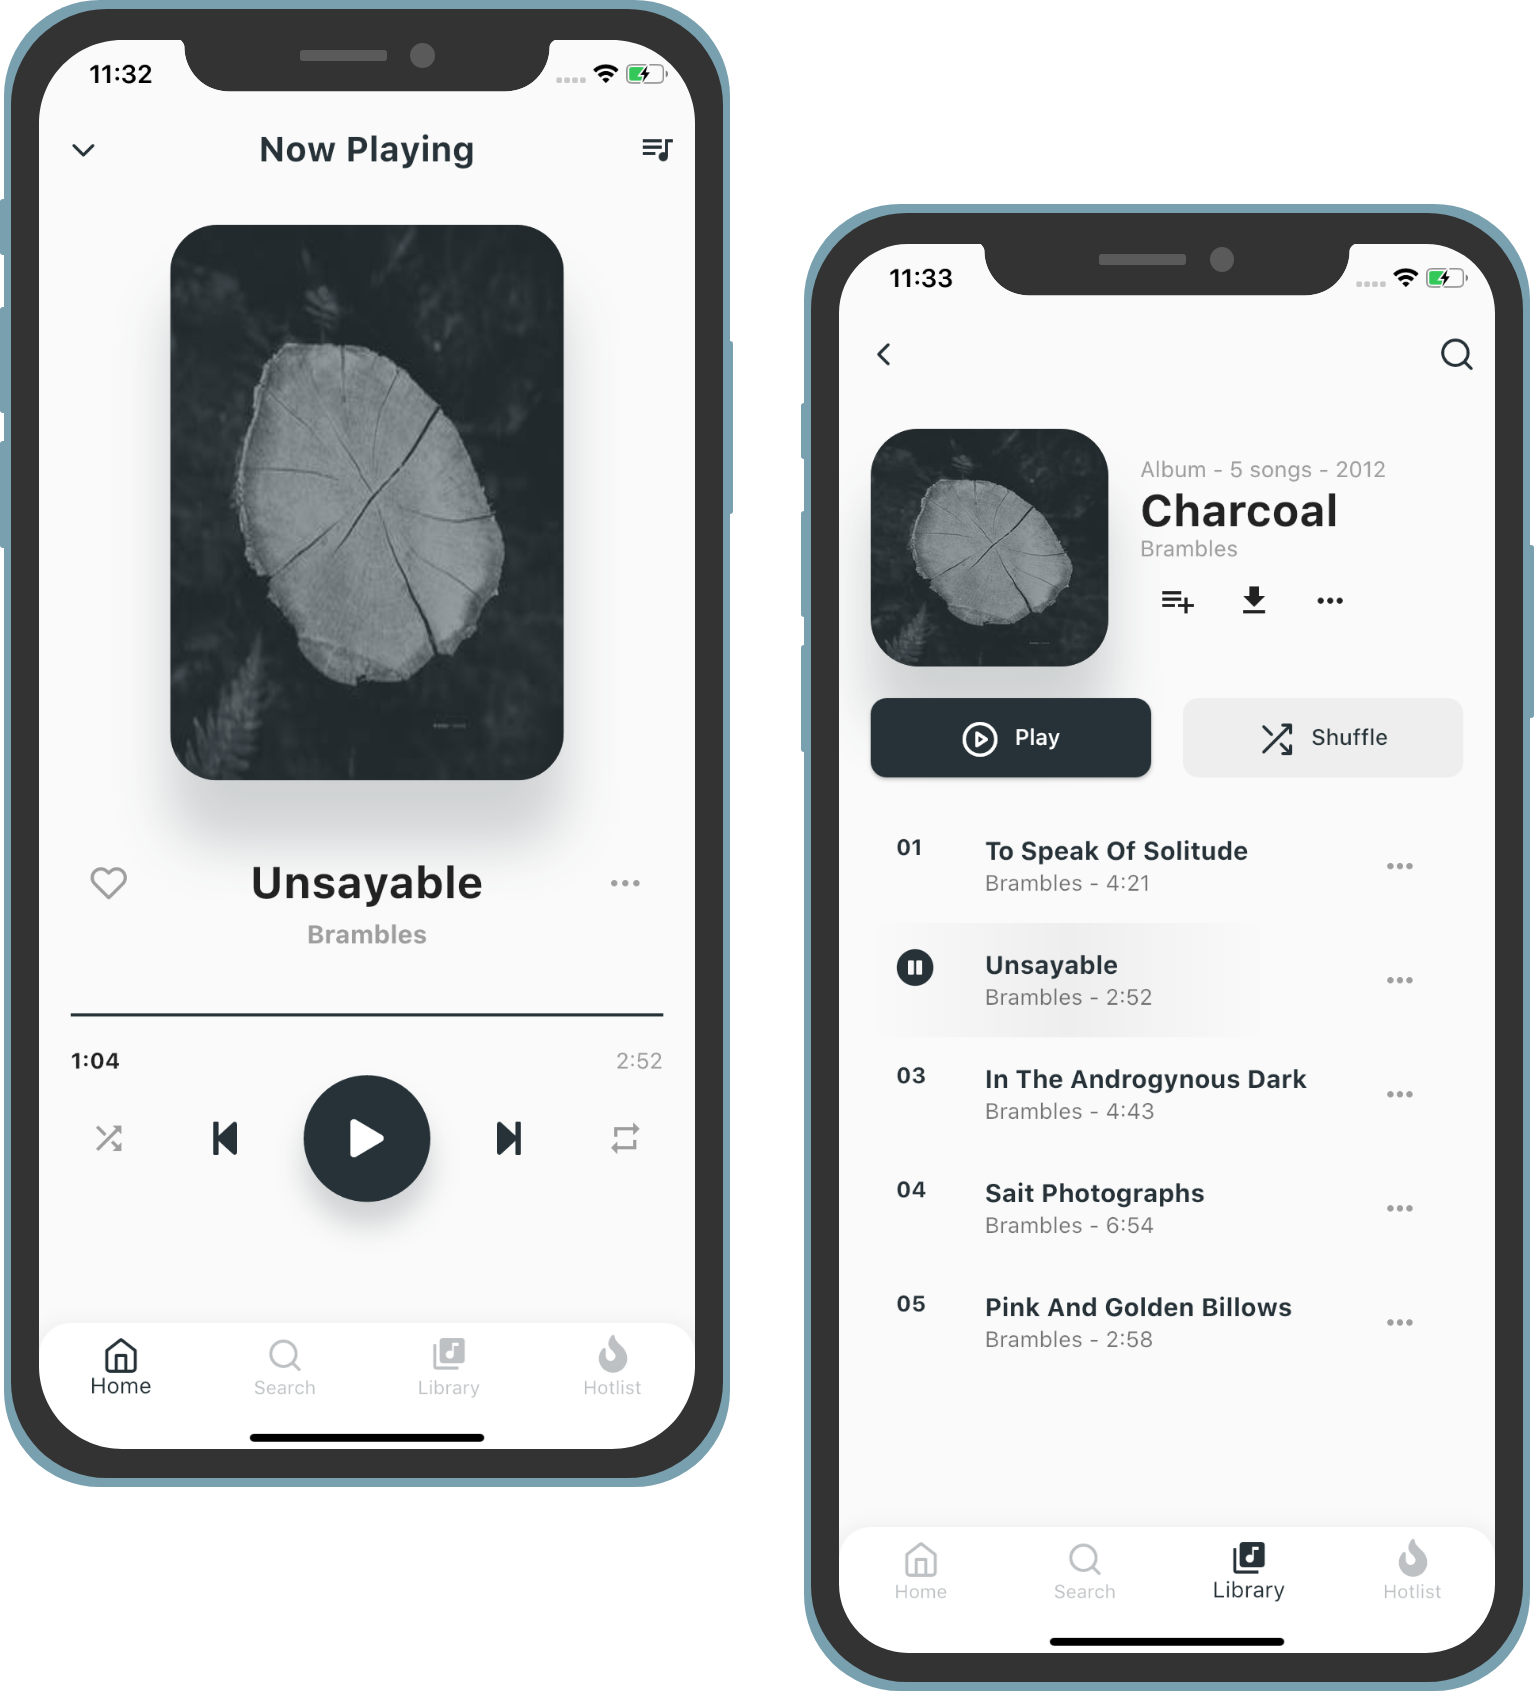
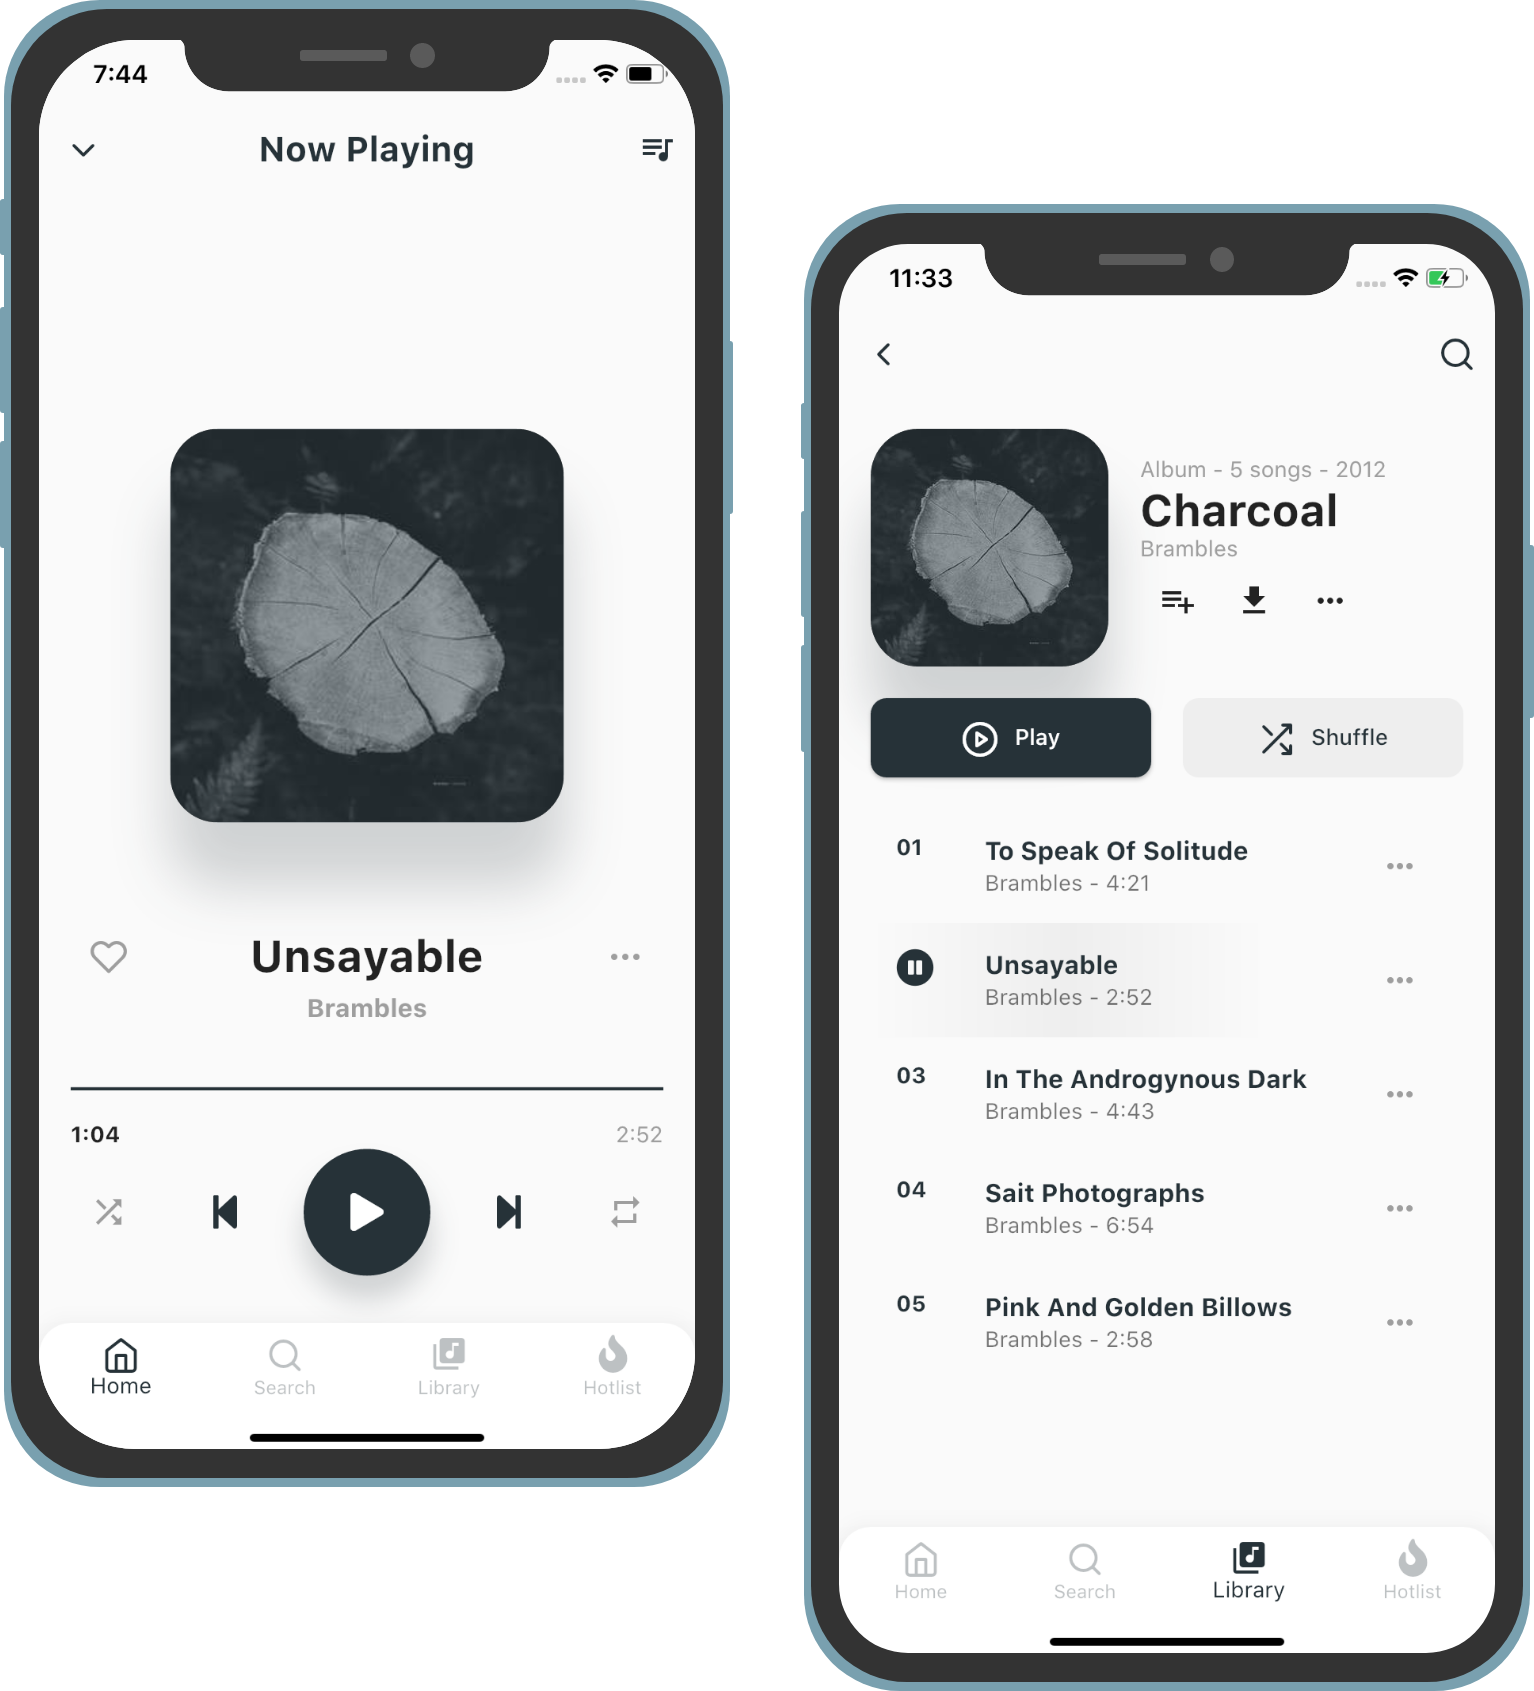
doc: image to readme.md info

diff --git a/lib/app/pages/home/tabs/home_tab.dart b/lib/app/pages/home/tabs/home_tab.dart
@@ -32,44 +32,42 @@ class _HomeTabState extends State<HomeTab> {
         child: Center(
           child: Column(
             children: <Widget>[
-              Expanded(
-                flex: 2,
-                child: Container(
-                  width: size.width * 0.60,
-                  height: size.width * 0.60,
-                  decoration: BoxDecoration(
-                    borderRadius: BorderRadius.circular(30),
-                    boxShadow: [
-                      BoxShadow(
-                        blurRadius: 30,
-                        offset: Offset(0, 40),
-                        color: Theme.of(context).primaryColor.withOpacity(0.2)
-                      )
-                    ],
-                  ),
-                  child: Stack(
-                    alignment: Alignment.bottomCenter,
-                    children: <Widget>[
-                      Container(
-                        decoration: BoxDecoration(
-                          borderRadius: BorderRadius.circular(30),
-                          image: DecorationImage(
-                            fit: BoxFit.fill,
-                            image: AssetImage(imgAlbum),
-                          )
-                        ),
-                      ),
-                      Container(
-                        decoration: BoxDecoration(
-                          color: Colors.blueGrey[800].withOpacity(0.5),
-                          borderRadius: BorderRadius.circular(30),
-                        ),
-                      ),
-                    ],
-                  )
+              Expanded(child: Container(), flex: 1,),
+              Container(
+                width: size.width * 0.60,
+                height: size.width * 0.60,
+                decoration: BoxDecoration(
+                  borderRadius: BorderRadius.circular(30),
+                  boxShadow: [
+                    BoxShadow(
+                      blurRadius: 30,
+                      offset: Offset(0, 40),
+                      color: Theme.of(context).primaryColor.withOpacity(0.2)
+                    )
+                  ],
                 ),
+                child: Stack(
+                  alignment: Alignment.bottomCenter,
+                  children: <Widget>[
+                    Container(
+                      decoration: BoxDecoration(
+                        borderRadius: BorderRadius.circular(30),
+                        image: DecorationImage(
+                          fit: BoxFit.fill,
+                          image: AssetImage(imgAlbum),
+                        )
+                      ),
+                    ),
+                    Container(
+                      decoration: BoxDecoration(
+                        color: Colors.blueGrey[800].withOpacity(0.5),
+                        borderRadius: BorderRadius.circular(30),
+                      ),
+                    ),
+                  ],
+                )
               ),
-              SizedBox(height: 40),
+              SizedBox(height: 60),
               Column(
                 children: <Widget>[
                   Row(
